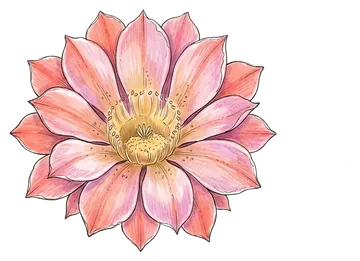
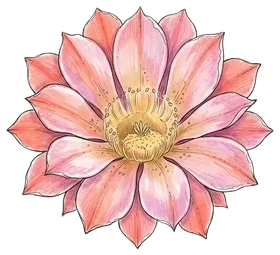
Entrega 4: Lleva Khiska contigo (capturas de la app, QR, compartir) y flor centrada en la muestra
Claude-Session: https://claude.ai/code/session_01BMNqxuP8tPza3Kx8M8t959

diff --git a/index.html b/index.html
@@ -273,20 +273,50 @@
       <div class="muestra-flor" data-muestra-flor data-estado="capullo">
         <div class="muestra-flor__escena" aria-hidden="true">
           <img class="muestra-flor__img muestra-flor__img--capullo" src="assets/img/flor-capullo.webp" alt="" width="360" height="404" loading="lazy">
-          <img class="muestra-flor__img muestra-flor__img--parcial" src="assets/img/flor-parcial.webp" alt="" width="360" height="261" loading="lazy">
-          <img class="muestra-flor__img muestra-flor__img--abierta" src="assets/img/flor-abierta.webp" alt="" width="360" height="261" loading="lazy">
+          <img class="muestra-flor__img muestra-flor__img--parcial" src="assets/img/flor-parcial.webp" alt="" width="219" height="232" loading="lazy">
+          <img class="muestra-flor__img muestra-flor__img--abierta" src="assets/img/flor-abierta.webp" alt="" width="280" height="255" loading="lazy">
           <img class="muestra-flor__sello" src="assets/img/sello-ruta-completada.webp" alt="" width="420" height="419" loading="lazy">
         </div>
         <div class="muestra-flor__panel">
           <h3 class="muestra-flor__titulo">Pruébalo: así se abre una flor</h3>
           <ul class="estados" aria-label="Cómo se abre una flor">
             <li class="estado" data-etapa="capullo"><img src="assets/img/flor-capullo.webp" alt="" width="360" height="404" loading="lazy"><strong>Capullo cerrado</strong><span>Ruta por descubrir</span></li>
-            <li class="estado" data-etapa="parcial"><img src="assets/img/flor-parcial.webp" alt="" width="360" height="261" loading="lazy"><strong>Apertura parcial</strong><span>Ruta iniciada</span></li>
-            <li class="estado" data-etapa="abierta"><img src="assets/img/flor-abierta.webp" alt="" width="360" height="261" loading="lazy"><strong>Flor abierta</strong><span>Ruta completada</span></li>
+            <li class="estado" data-etapa="parcial"><img src="assets/img/flor-parcial.webp" alt="" width="219" height="232" loading="lazy"><strong>Apertura parcial</strong><span>Ruta iniciada</span></li>
+            <li class="estado" data-etapa="abierta"><img src="assets/img/flor-abierta.webp" alt="" width="280" height="255" loading="lazy"><strong>Flor abierta</strong><span>Ruta completada</span></li>
           </ul>
           <p class="muestra-flor__estado" aria-live="polite">Capullo cerrado: la ruta todavía no empieza.</p>
           <button class="btn muestra-flor__boton" type="button">Comienza la ruta</button>
         </div>
+      </div>
+    </div>
+  </section>
+
+  <section class="seccion seccion--app" id="app" aria-labelledby="titulo-app">
+    <div class="contenedor app-promo">
+      <div class="app-promo__texto">
+        <span class="rotulo rotulo--rosa">La app Khiska</span>
+        <h2 id="titulo-app">Lleva Khiska contigo.</h2>
+        <p class="app-promo__bajada">Tu cactus, tus rutas y tu Pasaporte, en el celular. Sin crear cuenta y listo para cuando salgas a recorrer.</p>
+        <ul class="app-promo__lista">
+          <li><img src="assets/icons/icono-hoja.webp" alt="" width="40" height="40"><span><strong>Elige qué te da curiosidad.</strong> Las rutas se ordenan según lo que marques.</span></li>
+          <li><img src="assets/icons/icono-sendero.webp" alt="" width="40" height="40"><span><strong>Prepara tu salida.</strong> Revisa la ficha de cada lugar antes de ir.</span></li>
+          <li><img src="assets/icons/icono-flor.webp" alt="" width="40" height="40"><span><strong>Mira cómo florece tu Khiska.</strong> Cada ruta completada abre una flor y suma un sello.</span></li>
+        </ul>
+        <div class="hero__acciones">
+          <a class="btn" href="app/index.html">Abrir la app</a>
+          <button class="btn btn--secundario" type="button" data-compartir>Compartir El Quisco</button>
+        </div>
+        <p class="app-promo__estado" data-compartir-estado aria-live="polite"></p>
+        <div class="app-promo__qr">
+          <img src="assets/img/app/qr-app.svg" alt="Código QR para abrir la app Khiska en el celular" width="296" height="296" loading="lazy">
+          <p><strong>Ábrela en tu celular.</strong> Escanea el código con la cámara y, ya en la app, elige «Agregar a pantalla de inicio» para tenerla a un toque.</p>
+        </div>
+        <p class="app-promo__tip">En el celular: abre la app y elige «Agregar a pantalla de inicio» en el menú del navegador para tenerla a un toque.</p>
+      </div>
+      <div class="app-telefonos" aria-hidden="true">
+        <div class="telefono telefono--izq"><img src="assets/img/app/app-p1.webp" alt="" width="390" height="844" loading="lazy"></div>
+        <div class="telefono telefono--der"><img src="assets/img/app/app-p2.webp" alt="" width="390" height="844" loading="lazy"></div>
+        <div class="telefono telefono--centro"><img src="assets/img/app/app-p7.webp" alt="" width="390" height="844" loading="lazy"></div>
       </div>
     </div>
   </section>

diff --git a/css/styles.css b/css/styles.css
@@ -705,7 +705,7 @@ html .revelar.visible { opacity: 1; transform: none; }
    ========================================================================== */
 .muestra-flor {
   display: grid; grid-template-columns: minmax(220px, .8fr) 1.2fr; gap: clamp(1.2rem, 4vw, 3rem); align-items: center;
-  margin-top: 2.5rem; padding: clamp(1.2rem, 3vw, 2rem);
+  margin-top: 2.5rem; padding: clamp(1.2rem, 3vw, 2rem); overflow: hidden;
   background: var(--tarjeta); border: 1px solid var(--linea); border-radius: calc(var(--radio) * 1.6); box-shadow: var(--sombra);
 }
 .muestra-flor__escena {
@@ -754,3 +754,43 @@ html.lectura-facil .muestra-flor .estado { opacity: 1; }
   .muestra-flor__img, .muestra-flor__sello { transition: none; }
   .muestra-flor[data-estado="capullo"] .muestra-flor__img--capullo { animation: none; }
 }
+
+/* ==========================================================================
+   Lleva Khiska contigo (paso 4 · entrega 4)
+   ========================================================================== */
+.seccion--app { background: linear-gradient(160deg, var(--salvia-suave) 0%, var(--papel) 70%); overflow: hidden; }
+.app-promo { display: grid; grid-template-columns: 1fr 1fr; gap: clamp(2rem, 5vw, 4rem); align-items: center; }
+.app-promo__bajada { font-size: 1.12rem; color: var(--texto-suave); max-width: 44ch; }
+.app-promo__lista { list-style: none; padding: 0; margin: 1.4rem 0 0; display: grid; gap: .9rem; }
+.app-promo__lista li { display: flex; gap: .8rem; align-items: flex-start; }
+.app-promo__lista img { width: 40px; height: 40px; flex: none; object-fit: contain; }
+.app-promo__estado { min-height: 1.4em; margin: .6rem 0 0; font-size: .92rem; color: var(--verde-tinta); font-weight: 500; }
+.app-promo__qr {
+  display: flex; gap: 1rem; align-items: center; margin-top: 1rem; padding: .9rem;
+  max-width: 440px; background: var(--tarjeta); border: 1px solid var(--linea); border-radius: var(--radio); box-shadow: var(--sombra);
+}
+.app-promo__qr img { width: 112px; height: 112px; flex: none; border-radius: var(--radio-sm); }
+.app-promo__qr p { margin: 0; font-size: .92rem; color: var(--texto-suave); }
+.app-promo__tip { display: none; font-size: .92rem; color: var(--texto-suave); margin-top: 1rem; }
+.app-telefonos { position: relative; height: clamp(420px, 46vw, 580px); }
+.telefono {
+  position: absolute; top: 50%; left: 50%; width: clamp(170px, 18vw, 240px); aspect-ratio: 390 / 844;
+  border: 9px solid #1e1e1e; border-radius: 34px; overflow: hidden; background: #1e1e1e;
+  box-shadow: 0 30px 60px -28px rgba(38, 59, 23, .55), 0 8px 18px -10px rgba(30, 30, 30, .35);
+}
+.telefono::before { content: ""; position: absolute; top: 6px; left: 50%; width: 34%; height: 14px; translate: -50% 0; background: #1e1e1e; border-radius: 10px; z-index: 1; }
+.telefono img { width: 100%; height: 100%; object-fit: cover; object-position: top; border-radius: 25px; }
+.telefono--centro { z-index: 2; transform: translate(-50%, -50%); animation: flotar-tel 7s ease-in-out infinite; }
+.telefono--izq { transform: translate(-112%, -46%) rotate(-8deg) scale(.88); animation: flotar-tel 7s ease-in-out -2.3s infinite; }
+.telefono--der { transform: translate(12%, -46%) rotate(8deg) scale(.88); animation: flotar-tel 7s ease-in-out -4.6s infinite; }
+@keyframes flotar-tel { 0%, 100% { translate: 0 0; } 50% { translate: 0 -12px; } }
+@media (max-width: 860px) {
+  .app-promo { grid-template-columns: 1fr; }
+  .app-telefonos { order: -1; height: clamp(340px, 92vw, 460px); }
+  .telefono { width: clamp(140px, 38vw, 190px); }
+  .app-promo__qr { display: none; }
+  .app-promo__tip { display: block; }
+}
+html.lectura-facil .app-telefonos { display: none; }
+html.lectura-facil .app-promo { grid-template-columns: 1fr; }
+@media (prefers-reduced-motion: reduce) { .telefono { animation: none; } }

diff --git a/experiencia-khiska.html b/experiencia-khiska.html
@@ -64,16 +64,16 @@
       <div class="muestra-flor" data-muestra-flor data-estado="capullo">
         <div class="muestra-flor__escena" aria-hidden="true">
           <img class="muestra-flor__img muestra-flor__img--capullo" src="assets/img/flor-capullo.webp" alt="" width="360" height="404" loading="lazy">
-          <img class="muestra-flor__img muestra-flor__img--parcial" src="assets/img/flor-parcial.webp" alt="" width="360" height="261" loading="lazy">
-          <img class="muestra-flor__img muestra-flor__img--abierta" src="assets/img/flor-abierta.webp" alt="" width="360" height="261" loading="lazy">
+          <img class="muestra-flor__img muestra-flor__img--parcial" src="assets/img/flor-parcial.webp" alt="" width="219" height="232" loading="lazy">
+          <img class="muestra-flor__img muestra-flor__img--abierta" src="assets/img/flor-abierta.webp" alt="" width="280" height="255" loading="lazy">
           <img class="muestra-flor__sello" src="assets/img/sello-ruta-completada.webp" alt="" width="420" height="419" loading="lazy">
         </div>
         <div class="muestra-flor__panel">
           <h3 class="muestra-flor__titulo">Pruébalo: así se abre una flor</h3>
           <ul class="estados" aria-label="Cómo se abre una flor">
             <li class="estado" data-etapa="capullo"><img src="assets/img/flor-capullo.webp" alt="" width="360" height="404" loading="lazy"><strong>Capullo cerrado</strong><span>Ruta por descubrir</span></li>
-            <li class="estado" data-etapa="parcial"><img src="assets/img/flor-parcial.webp" alt="" width="360" height="261" loading="lazy"><strong>Apertura parcial</strong><span>Ruta iniciada</span></li>
-            <li class="estado" data-etapa="abierta"><img src="assets/img/flor-abierta.webp" alt="" width="360" height="261" loading="lazy"><strong>Flor abierta</strong><span>Ruta completada</span></li>
+            <li class="estado" data-etapa="parcial"><img src="assets/img/flor-parcial.webp" alt="" width="219" height="232" loading="lazy"><strong>Apertura parcial</strong><span>Ruta iniciada</span></li>
+            <li class="estado" data-etapa="abierta"><img src="assets/img/flor-abierta.webp" alt="" width="280" height="255" loading="lazy"><strong>Flor abierta</strong><span>Ruta completada</span></li>
           </ul>
           <p class="muestra-flor__estado" aria-live="polite">Capullo cerrado: la ruta todavía no empieza.</p>
           <button class="btn muestra-flor__boton" type="button">Comienza la ruta</button>

diff --git a/js/main.js b/js/main.js
@@ -345,7 +345,8 @@
       [".personas-grid > *, .grid-tarjetas > *, .videos > *, .estados > *, .agenda > *, .pie__grid > *", ""],
       [".pasos > li, .formulario > .campo, .formulario > .acciones", "izq"],
       [".seccion__cabecera, .cabecera-pagina > *, .ficha-hero > *, .ficha-cuerpo > *, .curiosidad > *, .comunidad > *, .pasaporte > *, .seccion > .contenedor > .aviso", ""],
-      [".khiska__ilustracion, .ficha-hero__media, .propon__img, .estado-form", "zoom"],
+      [".khiska__ilustracion, .ficha-hero__media, .propon__img, .estado-form, .app-telefonos, .muestra-flor", "zoom"],
+      [".app-promo__lista > li", "izq"],
       [".khiska > div:not(.khiska__ilustracion)", "der"]
     ];
     var marcados = [];
@@ -428,6 +429,20 @@
       if (yaElegiste || c.getAttribute("data-dimension") === "todo") return;
       yaElegiste = true;
       lluviaDeFlores(window.innerWidth < 600 ? 25 : 40);
+    });
+  });
+
+  /* ---------- Compartir el portal ---------- */
+  document.querySelectorAll("[data-compartir]").forEach(function (b) {
+    var aviso = document.querySelector("[data-compartir-estado]");
+    var decir = function (t) { if (aviso) aviso.textContent = t; };
+    b.addEventListener("click", function () {
+      var url = window.location.href.split("#")[0].replace(/index\.html$/, "");
+      var datos = { title: "El Quisco: donde la naturaleza tiene nombre", text: "Descubre El Quisco más allá de la playa y conoce Khiska: una ruta, una flor.", url: url };
+      if (navigator.share) { navigator.share(datos).catch(function () {}); return; }
+      if (navigator.clipboard && window.isSecureContext) {
+        navigator.clipboard.writeText(url).then(function () { decir("¡Enlace copiado! Pégalo donde quieras compartirlo."); }, function () { window.prompt("Copia el enlace:", url); });
+      } else { window.prompt("Copia el enlace:", url); }
     });
   });
 })();

diff --git a/_proyecto/registro-de-decisiones.md b/_proyecto/registro-de-decisiones.md
@@ -22,3 +22,6 @@
 | 23/11/2026 | Entrega 2: animaciones en todo el portal (aparecer al bajar en cascada, cabecera que se compacta, barra de avance, tarjetas que responden al mouse); todo se desactiva con movimiento reducido | Nicolás | Hecho |
 | 23/11/2026 | Franja de colores con fondo transparente, unida a la portada (sin línea blanca) | Nicolás | Hecho |
 | 23/11/2026 | Entrega 3: muestra interactiva "Pruébalo: así se abre una flor" (inicio y Experiencia Khiska) con sello y lluvia de flores al completar; lluvia también al elegir un interés por primera vez y al enviar "Propón un lugar"; se elimina el jardín antiguo con rótulos "(demo)" | Nicolás | Hecho |
+| 23/11/2026 | Flores parcial y abierta recortadas a su contorno real (tenían un halo que las corría a la izquierda) | Nicolás | Hecho |
+| 23/11/2026 | Entrega 4: sección "Lleva Khiska contigo" con capturas limpias de la app (P1, P2, P7, sin rótulos de ejemplo ni Wallet), QR a la app, botón Compartir y consejo de "Agregar a pantalla de inicio" | Nicolás | Hecho |
+| 23/11/2026 | Pendiente para mañana: limpiar la app (quitar "Prototipo", "Modo prueba", "Ejemplo", "por confirmar", Wallet) para que coincida con las capturas del portal | Nicolás | Pendiente |
